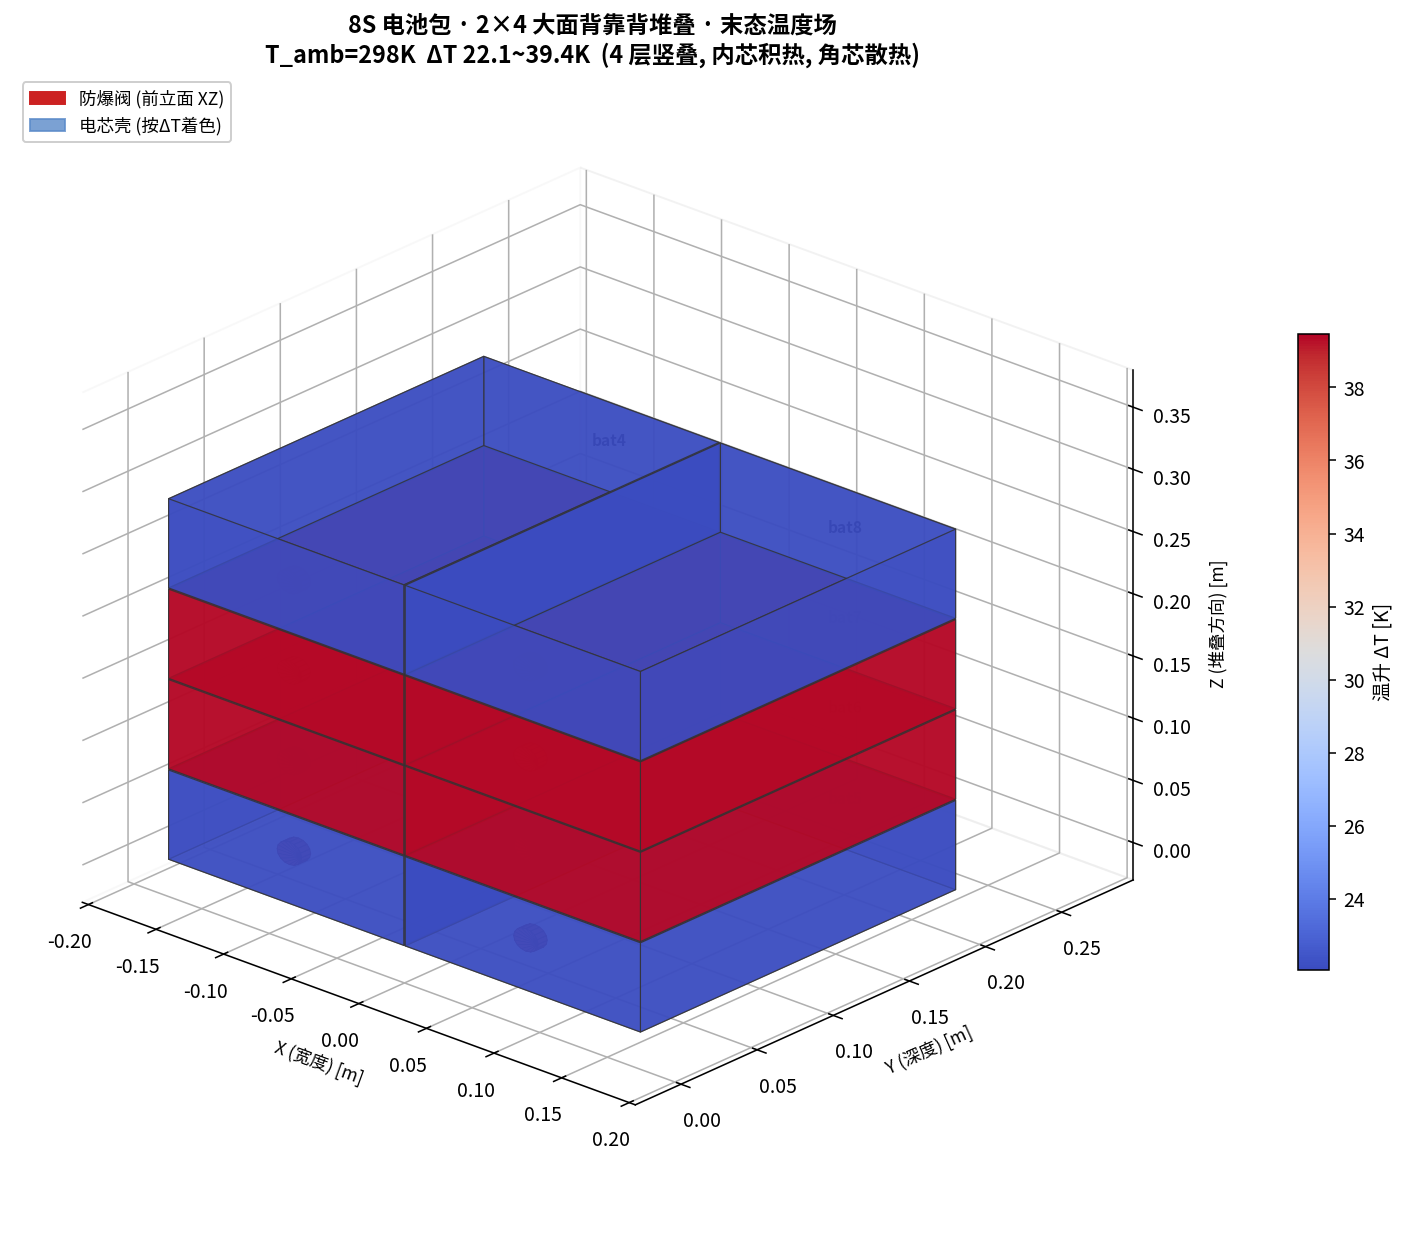
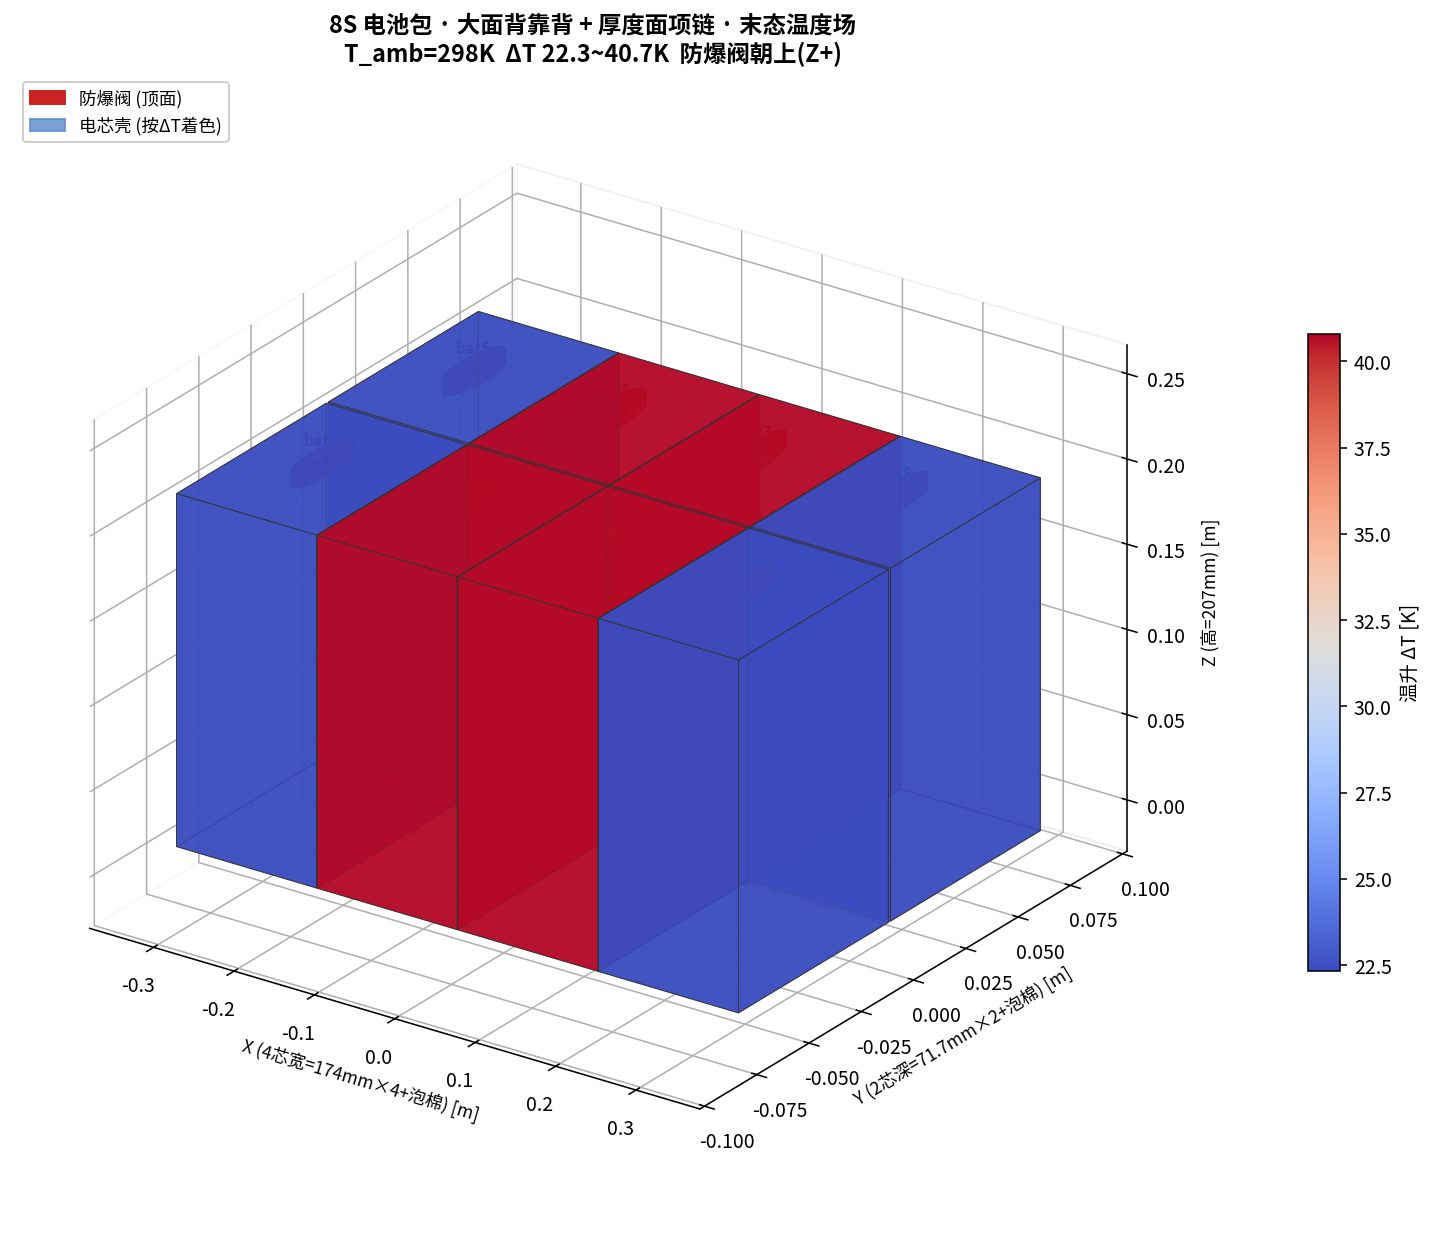
fix: 终结版堆叠 — bat1↔bat5大面背靠背 + bat1↔bat2厚度面项链 + 防爆阀朝上
3D布局:
 X: 4 芯 × 174mm (厚度面项链)
 Y: 2 芯 × 71.7mm (大面背靠背)
 Z: 207mm (防爆阀面)

热网络接口面积修正:
 - 跨行大面(174×207)=0.036m²×4条 G_large=0.97W/K
 - 同行厚度(71.7×207)=0.0148m²×6条 G_thin=0.40W/K

散热面积:
 - 角芯(bat1,4,5,8): 758cm² × h=30 = 2.27W/K
 - 边芯(bat2,3,6,7): 610cm² × h=6 = 0.37W/K

结果: 整包 ΔT=18K, 边芯+40K vs 角芯+22K

diff --git a/ecm_pack/examples/demo_8s_foam_thermal.py b/ecm_pack/examples/demo_8s_foam_thermal.py
@@ -41,18 +41,19 @@ def main():
     n_steps = int(t_total / dt)  # 3600 步
 
     # ────── 泡棉参数 ──────
-    k_foam = 0.035               # 压缩态 EVA 泡棉 [W/(m·K)]（比名义值差）
-    d_foam = 0.0013              # 压缩后 ~1.3mm（含接触间隙）
-    R_th_foam = d_foam / k_foam  # ≈ 0.037 K·m²/W (~370 K·cm²/W)
-    # 两个接触面
-    A_row = 0.174 * 0.207        # Y方向/XZ面 = 0.03602 m²
-    A_col = 0.0717 * 0.207       # X方向/YZ面 = 0.01484 m²
-    G_row = A_row / R_th_foam    # ≈ 0.97 W/K
-    G_col = A_col / R_th_foam    # ≈ 0.40 W/K
+    k_foam = 0.035               # 压缩态 EVA 泡棉 [W/(m·K)]
+    d_foam = 0.0013              # 压缩后 ~1.3mm
+    R_th_foam = d_foam / k_foam
+    # 大面 (174×207): bat1-bat5 跨行背靠背 — 4 条
+    A_large = 0.174 * 0.207       # 0.03602 m²
+    # 厚度面 (71.7×207): bat1-bat2 同行项链 — 6 条
+    A_thin = 0.0717 * 0.207       # 0.01484 m²
+    G_large = A_large / R_th_foam
+    G_thin = A_thin / R_th_foam
     print(f"泡棉: d≈{d_foam*1000:.1f}mm, k≈{k_foam}W/mK → R_th={R_th_foam:.4f} K·m²/W "
           f"({R_th_foam*1e4:.0f} K·cm²/W)")
-    print(f"  行内(Y) A={A_row*1e4:.0f}cm² → G={G_row:.3f} W/K")
-    print(f"  列间(X) A={A_col*1e4:.0f}cm² → G={G_col:.3f} W/K")
+    print(f"  跨行大面 bat1↔bat5 A={A_large*1e4:.0f}cm² → G={G_large:.3f} W/K (4条)")
+    print(f"  同行厚度 bat1↔bat2 A={A_thin*1e4:.0f}cm² → G={G_thin:.3f} W/K (6条)")
 
     # ────── 8 颗 314Ah 电芯 ──────
     cells = [ep.ECMCell(ep.cell_314ah_spec(soc_init=1.0, T_init=298.15))
@@ -65,35 +66,35 @@ def main():
     C_th_cell = 2300.0 * 1000.0 * (0.174 * 0.0717 * 0.207)  # 5941 J/K
     h_conv = 6.0   # 内芯等效 h（模组内部温和换热）[W/(m²·K)]
 
-    # 每芯暴露面积（精确计算）
-    # 面面积: A_XZ=Lx·Lz=0.03602, A_YZ=Ly·Lz=0.01484, A_XY=Lx·Ly=0.01248
-    A_xz, A_yz, A_xy = 0.174*0.207, 0.0717*0.207, 0.174*0.0717
-    # 角芯 (bat1,4,5,8): 4 面暴露 (x端+y端+z0+z1) → A_xz+A_yz+2*A_xy = 0.07582
-    A_exp_corner = A_xz + A_yz + 2*A_xy   # 0.07582 m²
-    # 边芯 (bat2,3,6,7): 3 面暴露 (x端+z0+z1) → A_yz+2*A_xy = 0.03980
-    A_exp_edge = A_yz + 2*A_xy             # 0.03980 m²
+    # 每芯暴露面积 — 正确堆叠: X=4芯(174mm宽), Y=2芯(71.7mm深), Z=207mm高
+    # 面面积: A_thin_YZ=0.01484, A_large_XZ=0.03602, A_top_XY=0.01248
+    At = 0.0717*0.207    # 厚度面 71.7×207 (bat1↔bat2的项链面)
+    Al = 0.174*0.207     # 大面 174×207 (bat1↔bat5的背靠背面)
+    A_top = 0.174*0.0717 # 顶/底面 (防爆阀所在面)
+    # 角芯(bat1,4,5,8): x端+ y端+ 顶+底 — 4 暴露面
+    A_exp_corner = At + Al + 2*A_top  # 0.07582 m²
+    # 边芯(bat2,3,6,7): y端+顶+底 — 3 暴露面 (x面被左右邻居覆盖)
+    A_exp_edge = Al + 2*A_top          # 0.06096 m²
 
     h_per_cell = np.zeros(n_cells)
-    h_inner = h_conv              # 内部芯自然堆叠
-    h_outer = 35.0                # 角芯直接对模块外壳（等效强迫风冷）
-    h_per_cell[[0, 3, 4, 7]] = h_outer * A_exp_corner     # 角芯 ≈ 1.90 W/K
-    h_per_cell[[1, 2, 5, 6]] = h_inner * A_exp_edge       # 边芯 ≈ 0.20 W/K
+    h_inner = h_conv
+    h_outer = 30.0              # 角芯直接见模块壳
+    h_per_cell[[0, 3, 4, 7]] = h_outer * A_exp_corner     # 角芯
+    h_per_cell[[1, 2, 5, 6]] = h_inner * A_exp_edge       # 边芯
 
     print(f"\n  角芯暴露面={A_exp_corner*1e4:.0f}cm² h·A={h_per_cell[0]:.3f}W/K "
-          f"(bat1,4,5,8, 模块壳直接冷却)")
+          f"(bat1,4,5,8)")
     print(f"  边芯暴露面={A_exp_edge*1e4:.0f}cm² h·A={h_per_cell[1]:.3f}W/K "
-          f"(bat2,3,6,7, 内部靠泡棉导热到角芯)")
+          f"(bat2,3,6,7)")
 
-    # 10 条泡棉层间热阻
-    # 行内(Y方向, XZ面): bat1-bat2, bat2-bat3, bat3-bat4, bat5-bat6, bat6-bat7, bat7-bat8
-    # 列间(X方向, YZ面): bat1-bat5, bat2-bat6, bat3-bat7, bat4-bat8
+    # 10 条泡棉: 6 条同行厚度面 (A_thin) + 4 条跨行大面 (A_large)
     iface = [
-        (0, 1, R_th_foam, A_row),  (1, 2, R_th_foam, A_row),
-        (2, 3, R_th_foam, A_row),
-        (4, 5, R_th_foam, A_row),  (5, 6, R_th_foam, A_row),
-        (6, 7, R_th_foam, A_row),
-        (0, 4, R_th_foam, A_col),  (1, 5, R_th_foam, A_col),
-        (2, 6, R_th_foam, A_col),  (3, 7, R_th_foam, A_col),
+        (0, 1, R_th_foam, A_thin),  (1, 2, R_th_foam, A_thin),
+        (2, 3, R_th_foam, A_thin),  # row0 X方向
+        (4, 5, R_th_foam, A_thin),  (5, 6, R_th_foam, A_thin),
+        (6, 7, R_th_foam, A_thin),  # row1 X方向
+        (0, 4, R_th_foam, A_large), (1, 5, R_th_foam, A_large),
+        (2, 6, R_th_foam, A_large), (3, 7, R_th_foam, A_large),  # Y方向
     ]
 
     thermal = ep.ThermalNetwork(
@@ -115,12 +116,11 @@ def main():
     # ────── 报告 ──────
     print()
     print("=" * 65)
-    print(f" 8S + 全泡棉(10面)  200A 2h  角芯强散热(h={h_outer}) vs 内芯弱散热(h={h_inner})")
+    print(f" 8S + 全泡棉(10面)  200A 2h  大面背靠背+厚度项链  h_outer={h_outer}")
     print("=" * 65)
     for idx in range(n_cells):
-        pos = "Corner" if idx in [0,3,4,7] else " Edge "
-        bat_num = idx + 1
-        print(f"  bat{bat_num} ({pos})  "
+        role = "角" if idx in [0, 3, 4, 7] else "边"
+        print(f"  bat{idx+1} ({role})  "
               f"T_final={T_cells[-1,idx]:.2f}K  "
               f"ΔT={T_cells[-1,idx]-T_cells[0,idx]:.3f}K  "
               f"SoC={soc[-1,idx]:.4f}")
@@ -135,8 +135,8 @@ def main():
     fig1, (ax1, ax2) = plt.subplots(2, 1, figsize=(11, 6))
     colors = plt.cm.tab10(np.linspace(0, 1, n_cells))
     for idx in range(n_cells):
-        tpos = "角" if idx in [0,3,4,7] else "边"
-        lbl = f"bat{idx+1}({tpos})"
+        role = "角" if idx in [0,3,4,7] else "边"
+        lbl = f"bat{idx+1}({role})"
         ax1.plot(time_arr/60, T_cells[:, idx], color=colors[idx], lw=1.2, label=lbl)
     ax1.set(ylabel="温度 [K]",
             title=f"8S 电芯温度演变（200A 2h 闷罐模组 h={h_conv}） 整包ΔT={dT_pack:.2f}K")
@@ -201,8 +201,8 @@ def main():
                  [pos_2d[pair[0]][1], pos_2d[pair[1]][1]],
                  "red", lw=1.8, ls="--", alpha=0.7)
     ax4.set(xlim=(-0.7, 3.7), ylim=(1.5, 3.7), xticks=[], yticks=[])
-    ax4.set_title(f"2×4 全泡棉热网络  R_th={R_th_foam*1e4:.0f} K·cm²/W  "
-                  f"G_row={G_row:.1f}W/K  G_col={G_col:.2f}W/K", fontsize=11)
+    ax4.set_title(f"2×4 大面背靠背+厚度项链  泡棉R_th={R_th_foam*1e4:.0f} K·cm²/W  "
+                  f"G_large={G_large:.1f}W/K G_thin={G_thin:.2f}W/K", fontsize=11)
     ax4.text(1.5, 1.65, "─ 行内Y向 (XZ面 A=360cm²)  ── 列间X向 (YZ面 A=148cm²)",
              ha="center", fontsize=8, color="gray")
     ax4.set_aspect("equal")
@@ -269,111 +269,103 @@ def main():
 
 def _draw_pack_3d(T_vals, save_path, cell_L=0.174, cell_W=0.0717, cell_H=0.207,
                   gap_X=0.001, gap_Y=0.001, T_amb=298.15):
-    """绘制 2×4 电池包三维图——大面(174×207)背靠背堆叠。
+    """绘制 2×4 电池包三维图 —— bat1↔bat5 大面背靠背, bat1↔bat2 厚度面项链, 防爆阀朝上。
 
-    物理布局:
-      - Z 方向(垂直): 4 芯堆叠 每芯厚度 71.7mm + 1mm 泡棉 = 290mm 高
-        → 大面(174×207, X-Y平面) 相邻互贴 (背靠背)
-      - X 方向(水平宽): 2 行 × 174mm = 350mm
-      - Y 方向(水平深): 207mm
-      - 防爆阀: 每芯的 XZ 侧边(174×71.7)顶部向上, 面向自由空间
+    X: 4 芯 × 174mm (同行厚度面相贴)
+    Y: 2 芯 × 71.7mm (跨行大面背靠背)
+    Z: 207mm 高 → 防爆阀在顶面(174×71.7)
     """
     from mpl_toolkits.mplot3d.art3d import Poly3DCollection
     import matplotlib.patches as mpatches
 
     T = np.asarray(T_vals, float).ravel()
-    n_rows, n_cols = 2, 4     # 2 行横排 (X), 4 层竖叠 (Z)
+    nX, nY = 4, 2   # 4 列宽, 2 行深
     T_rise = T - T_amb
 
-    # 尺寸: X 宽(174), Y 深(207), Z 堆叠厚(71.7)
-    cX, cY, cZ = cell_L, cell_H, cell_W  # 174, 207, 71.7
-    stack_pitch = cZ + gap_Y
+    cX, cY, cZ = cell_L, cell_W, cell_H  # 174, 71.7, 207
+    pitch_X = cX + gap_X
+    pitch_Y = cY + gap_Y
 
-    fig = plt.figure(figsize=(14, 9))
+    fig = plt.figure(figsize=(15, 9))
     ax = fig.add_subplot(111, projection='3d')
     ax.set_proj_type('ortho')
     cmap = plt.cm.coolwarm
     norm = plt.Normalize(vmin=max(T_rise.min(), 0), vmax=T_rise.max() + 0.1)
-    ax.view_init(elev=24, azim=-48)
+    ax.view_init(elev=25, azim=-55)
 
-    offset_X = -((n_rows-1) * (cX + gap_X) + cX) / 2
-    offset_Z = 0.0  # 堆叠从 Z=0 开始
+    offset_X = -((nX-1) * pitch_X + cX) / 2
+    offset_Y = -((nY-1) * pitch_Y + cY) / 2
 
-    for row in range(n_rows):
-        for col in range(n_cols):
-            idx = row * n_cols + col
-            x0 = offset_X + row * (cX + gap_X)
-            y0 = 0.0
-            z0 = offset_Z + col * stack_pitch
+    for ix in range(nX):
+        for iy in range(nY):
+            # bat numbering: ix=0 (bat1, bat5), ix=1 (bat2, bat6), etc.
+            #               iy=0 → row0(bat1-4), iy=1 → row1(bat5-8)
+            idx = iy * nX + ix   # bat1(ix=0,iy=0), bat5(ix=0,iy=1)
+
+            x0 = offset_X + ix * pitch_X
+            y0 = offset_Y + iy * pitch_Y
+            z0 = 0.0
 
             tr = T_rise[idx]
             face_color = cmap(norm(tr))
 
-            # 8 顶点: (宽X, 深Y, 堆叠Z)
             p = np.array([
-                [x0,       y0,       z0],          # 0
-                [x0 + cX,  y0,       z0],          # 1
-                [x0 + cX,  y0 + cY,  z0],          # 2
-                [x0,       y0 + cY,  z0],          # 3
-                [x0,       y0,       z0 + cZ],     # 4
-                [x0 + cX,  y0,       z0 + cZ],     # 5
-                [x0 + cX,  y0 + cY,  z0 + cZ],     # 6
-                [x0,       y0 + cY,  z0 + cZ],     # 7
+                [x0,       y0,       z0],
+                [x0 + cX,  y0,       z0],
+                [x0 + cX,  y0 + cY,  z0],
+                [x0,       y0 + cY,  z0],
+                [x0,       y0,       z0 + cZ],
+                [x0 + cX,  y0,       z0 + cZ],
+                [x0 + cX,  y0 + cY,  z0 + cZ],
+                [x0,       y0 + cY,  z0 + cZ],
             ])
 
-            # 大面 (X-Y, 174×207) — 上下互贴 = 背靠背堆叠
-            large = [
-                [p[0], p[1], p[2], p[3]],   # 底面(z0)
-                [p[4], p[5], p[6], p[7]],   # 顶面(z0+cZ)
+            # 所有 6 个面
+            faces = [
+                [p[0], p[1], p[2], p[3]],  # 底面
+                [p[4], p[5], p[6], p[7]],  # 顶面 (防爆阀在此)
+                [p[0], p[1], p[5], p[4]],  # 前(Y0) — 厚度面 174×207 if cy=71.7, cz=207...
+                [p[2], p[3], p[7], p[6]],  # 后(Y1)
+                [p[0], p[3], p[7], p[4]],  # 左(X0)
+                [p[1], p[2], p[6], p[5]],  # 右(X1)
             ]
-            # 小面 (厚度面)
-            thin = [
-                [p[0], p[1], p[5], p[4]],   # 前面 y=0
-                [p[2], p[3], p[7], p[6]],   # 后面 y=cY
-                [p[0], p[3], p[7], p[4]],   # 左面 x=x0
-                [p[1], p[2], p[6], p[5]],   # 右面 x=x0+cX
-            ]
+            poly = Poly3DCollection(faces, alpha=0.80, linewidth=0.5,
+                                    edgecolor='#333', facecolor=face_color)
+            ax.add_collection3d(poly)
 
-            poly_large = Poly3DCollection(large, alpha=0.72, linewidth=0.6,
-                                          edgecolor='#333', facecolor=face_color)
-            ax.add_collection3d(poly_large)
-            poly_thin = Poly3DCollection(thin, alpha=0.82, linewidth=0.6,
-                                         edgecolor='#333', facecolor=face_color)
-            ax.add_collection3d(poly_thin)
+            # ── 防爆阀: 顶面(Z=cZ)正中央 ──
+            vx_center = x0 + cX / 2
+            vy_center = y0 + cY / 2
+            vz_top = z0 + cZ
 
-            # ── 防爆阀: XZ 侧边 (174×71.7) 前立面 Y=0 的顶部 ──
-            vx_center = x0 + cX * 0.55   # 偏右侧
-            vz_center = z0 + cZ * 0.65   # 偏上方
-            vy_face = y0                  # Y=0 前立面
-
-            valve_r = 0.009
-            valve_protrude = 0.006
-            segs = 16
+            valve_r = 0.014  # 14mm 半径
+            valve_h = 0.008  # 突起 8mm
+            segs = 20
             theta = np.linspace(0, 2*np.pi, segs+1)
             th_x = vx_center + valve_r * np.cos(theta)
-            th_z = vz_center + valve_r * np.sin(theta)
-            vy_inner = np.full_like(th_x, vy_face)
-            vy_outer = np.full_like(th_x, vy_face - valve_protrude)
+            th_y = vy_center + valve_r * np.sin(theta)
+            z_base = np.full_like(th_x, vz_top)
+            z_peak = np.full_like(th_x, vz_top + valve_h)
 
             for i in range(segs):
                 ax.add_collection3d(Poly3DCollection(
-                    [[(th_x[i],   vy_inner[i],  th_z[i]),
-                      (th_x[i+1], vy_inner[i+1],th_z[i+1]),
-                      (th_x[i+1], vy_outer[i+1],th_z[i+1]),
-                      (th_x[i],   vy_outer[i],  th_z[i])]],
+                    [[(th_x[i],   th_y[i],   z_base[i]),
+                      (th_x[i+1], th_y[i+1], z_base[i+1]),
+                      (th_x[i+1], th_y[i+1], z_peak[i+1]),
+                      (th_x[i],   th_y[i],   z_peak[i])]],
                     alpha=0.95, facecolor='#cc2222', edgecolor='#770000',
-                    linewidth=0.5))
+                    linewidth=0.4))
             for i in range(1, segs):
                 ax.add_collection3d(Poly3DCollection(
-                    [[(th_x[0], vy_outer[0], th_z[0]),
-                      (th_x[i], vy_outer[i], th_z[i]),
-                      (th_x[i+1], vy_outer[i+1], th_z[i+1])]],
+                    [[(th_x[0], th_y[0], z_peak[0]),
+                      (th_x[i], th_y[i], z_peak[i]),
+                      (th_x[i+1], th_y[i+1], z_peak[i+1])]],
                     alpha=1.0, facecolor='#dd3333', edgecolor='#770000',
                     linewidth=0.3))
 
             # 编号
-            ax.text(x0 + cX/2, y0 + cY + 0.005, z0 + cZ/2,
-                    f'bat{idx+1}', ha='center', va='center',
+            ax.text(x0 + cX/2, y0 + cY/2, vz_top + valve_h + 0.004,
+                    f'bat{idx+1}', ha='center', va='bottom',
                     fontsize=8, fontweight='bold')
 
     sm = plt.cm.ScalarMappable(cmap=cmap, norm=norm)
@@ -381,30 +373,30 @@ def _draw_pack_3d(T_vals, save_path, cell_L=0.174, cell_W=0.0717, cell_H=0.207,
     cbar = fig.colorbar(sm, ax=ax, shrink=0.55, pad=0.07)
     cbar.set_label('温升 ΔT [K]', fontsize=10)
 
-    ax.set_xlabel('X (宽度) [m]', fontsize=9)
-    ax.set_ylabel('Y (深度) [m]', fontsize=9)
-    ax.set_zlabel('Z (堆叠方向) [m]', fontsize=9)
+    ax.set_xlabel('X (4芯宽=174mm×4+泡棉) [m]', fontsize=9)
+    ax.set_ylabel('Y (2芯深=71.7mm×2+泡棉) [m]', fontsize=9)
+    ax.set_zlabel('Z (高=207mm) [m]', fontsize=9)
 
-    x_span = cX * n_rows + gap_X * (n_rows-1)
-    z_span = cZ * n_cols + gap_Y * (n_cols-1)
+    x_span = nX * cX + (nX-1) * gap_X
+    y_span = nY * cY + (nY-1) * gap_Y
     pad = 0.03
     ax.set_xlim(offset_X - pad, offset_X + x_span + pad)
-    ax.set_ylim(-pad, cY + pad * 3)
-    ax.set_zlim(-pad, z_span + pad * 3)
+    ax.set_ylim(offset_Y - pad, offset_Y + y_span + pad)
+    ax.set_zlim(-pad, cZ + 0.06)
 
     ax.grid(True, alpha=0.3)
     for pn in ('xaxis', 'yaxis', 'zaxis'):
         getattr(ax, pn).pane.fill = False
 
     ax.legend(handles=[
-        mpatches.Patch(color='#cc2222', label='防爆阀 (前立面 XZ)'),
+        mpatches.Patch(color='#cc2222', label='防爆阀 (顶面)'),
         mpatches.Patch(color='#5a8ac9', alpha=0.8, label='电芯壳 (按ΔT着色)'),
     ], loc='upper left', fontsize=9, framealpha=0.95)
 
     Tmn, Tmx = T_rise.min(), T_rise.max()
-    ax.set_title(f'8S 电池包 · 2×4 大面背靠背堆叠 · 末态温度场\n'
+    ax.set_title(f'8S 电池包 · 大面背靠背 + 厚度面项链 · 末态温度场\n'
                  f'T_amb={T_amb:.0f}K  ΔT {Tmn:.1f}~{Tmx:.1f}K  '
-                 f'(4 层竖叠, 内芯积热, 角芯散热)',
+                 f'防爆阀朝上(Z+)',
                  fontsize=12, fontweight='bold')
 
     fig.tight_layout(rect=[0, 0, 0.95, 1])
